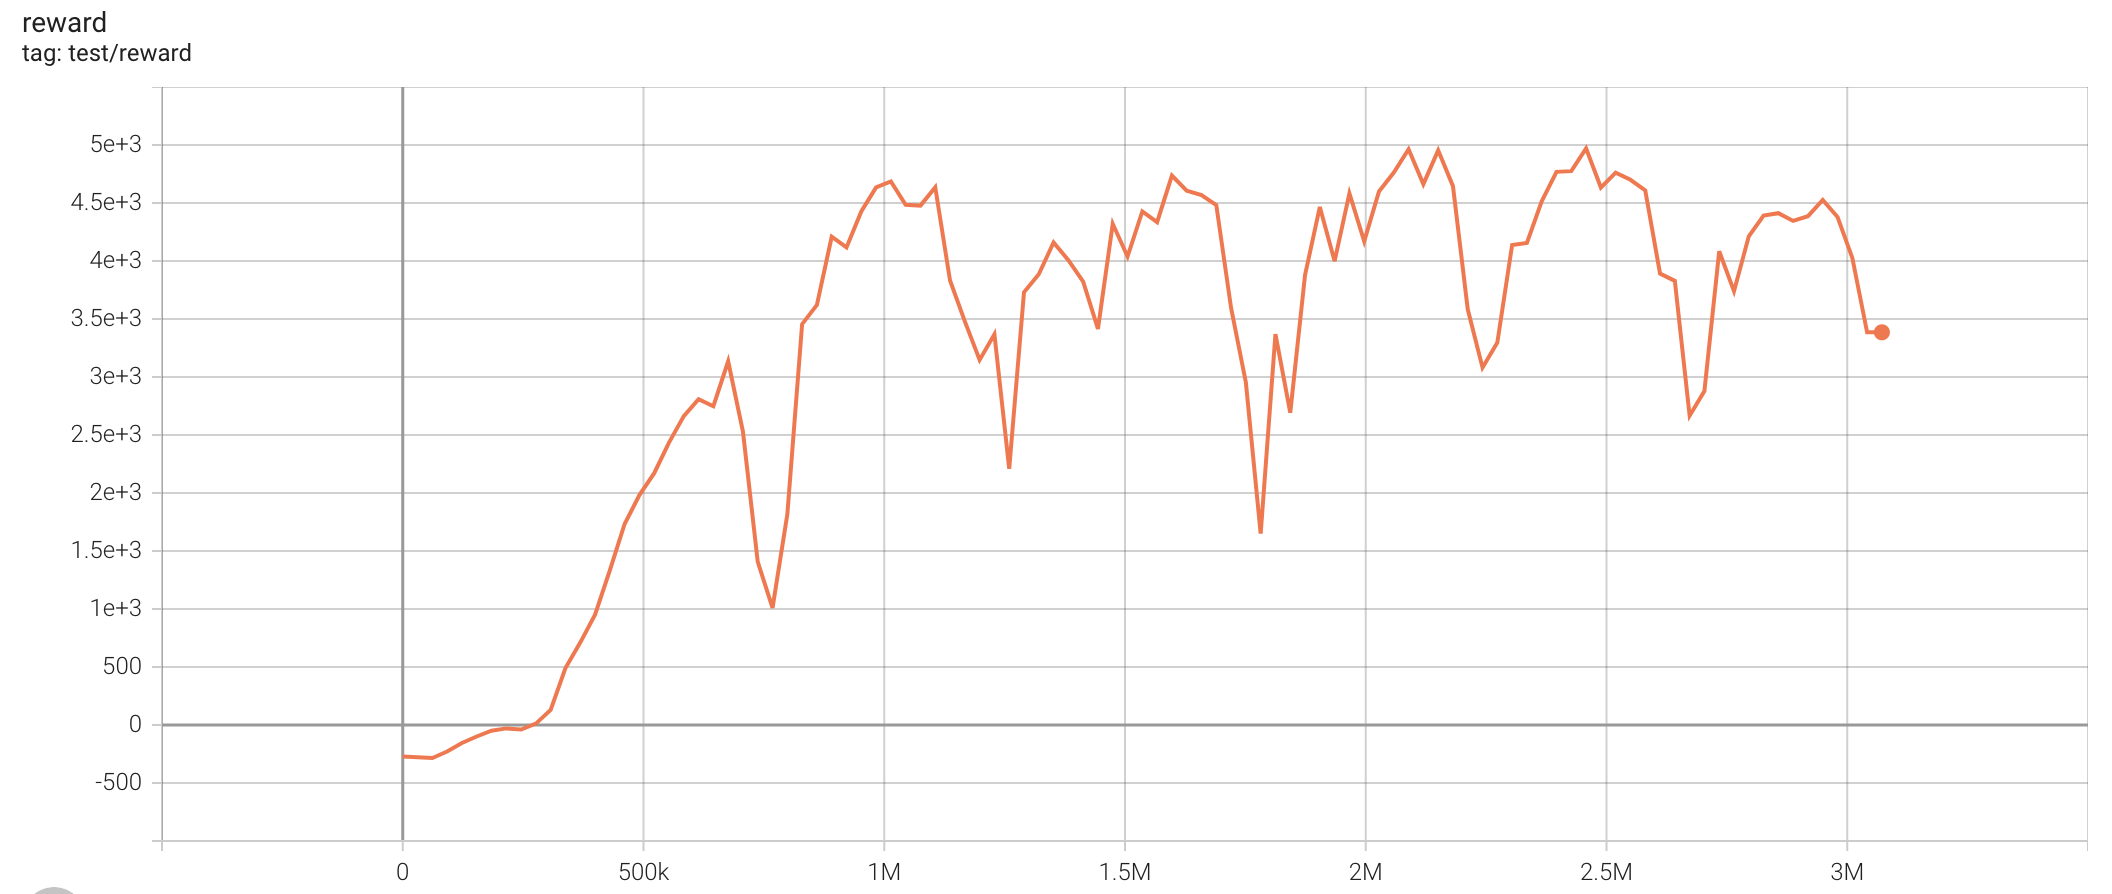
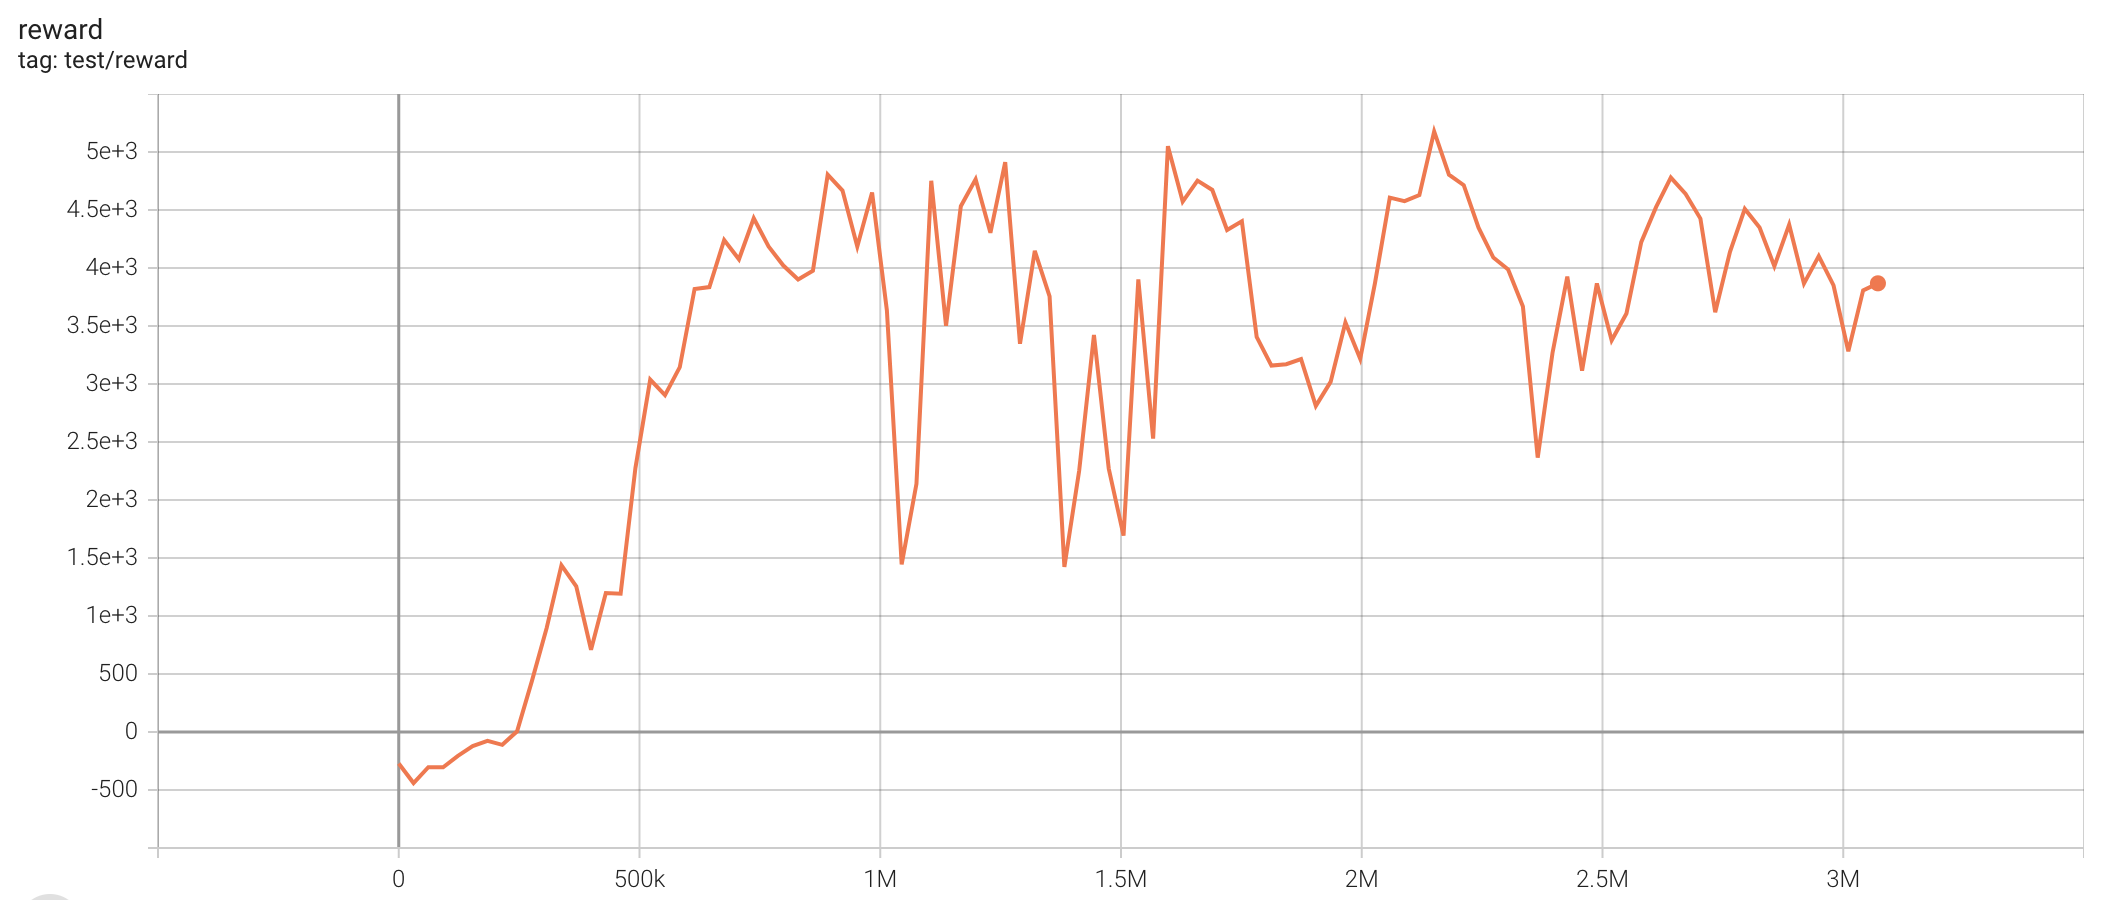
refactor GAIL implementation based on feedback

diff --git a/tianshou/policy/imitation/gail.py b/tianshou/policy/imitation/gail.py
@@ -18,11 +18,12 @@ class GAILPolicy(PPOPolicy):
     :param dist_fn: distribution class for computing the action.
     :type dist_fn: Type[torch.distributions.Distribution]
     :param ReplayBuffer expert_buffer: the replay buffer contains expert experience.
-    :param Discriminator disc: the discriminator network.
+    :param torch.nn.Module disc_net: the discriminator network with input dim equals
+        state dim plus action dim and output dim equals 1.
     :param torch.optim.Optimizer disc_optim: the optimizer for the discriminator
         network.
-    :param int disc_repeat: the number of discriminator grad steps per model grad
-        step. Default to 5.
+    :param int disc_update_num: the number of discriminator grad steps per model grad
+        step. Default to 4.
     :param float discount_factor: in [0, 1]. Default to 0.99.
     :param float eps_clip: :math:`\epsilon` in :math:`L_{CLIP}` in the original
         paper. Default to 0.2.
@@ -72,9 +73,9 @@ class GAILPolicy(PPOPolicy):
         optim: torch.optim.Optimizer,
         dist_fn: Type[torch.distributions.Distribution],
         expert_buffer: ReplayBuffer,
-        disc: torch.nn.Module,
+        disc_net: torch.nn.Module,
         disc_optim: torch.optim.Optimizer,
-        disc_repeat: int = 2,
+        disc_update_num: int = 4,
         eps_clip: float = 0.2,
         dual_clip: Optional[float] = None,
         value_clip: bool = False,
@@ -86,9 +87,9 @@ class GAILPolicy(PPOPolicy):
             actor, critic, optim, dist_fn, eps_clip, dual_clip, value_clip,
             advantage_normalization, recompute_advantage, **kwargs
         )
-        self.disc = disc
+        self.disc_net = disc_net
         self.disc_optim = disc_optim
-        self.disc_repeat = disc_repeat
+        self.disc_update_num = disc_update_num
         self.expert_buffer = expert_buffer
         self.action_dim = actor.output_dim
 
@@ -101,10 +102,13 @@ class GAILPolicy(PPOPolicy):
         """
         # update reward
         with torch.no_grad():
-            batch.rew = to_numpy(
-                -F.logsigmoid(-self.disc(batch.obs, batch.act)).flatten()
-            )
+            batch.rew = to_numpy(-F.logsigmoid(-self.disc(batch)).flatten())
         return super().process_fn(batch, buffer, indices)
+
+    def disc(self, batch: Batch) -> torch.Tensor:
+        obs = to_torch(batch.obs, device=self.disc_net.device)
+        act = to_torch(batch.act, device=self.disc_net.device)
+        return self.disc_net(torch.cat([obs, act], dim=1))  # type: ignore
 
     def learn(  # type: ignore
         self, batch: Batch, batch_size: int, repeat: int, **kwargs: Any
@@ -113,12 +117,11 @@ class GAILPolicy(PPOPolicy):
         losses = []
         acc_pis = []
         acc_exps = []
-        for b in batch.split(len(batch) // self.disc_repeat, merge_last=True):
-            logits_pi = self.disc(b.obs, b.act)
-            exp_b = to_torch(
-                self.expert_buffer.sample(batch_size)[0], device=b.act.device
-            )
-            logits_exp = self.disc(exp_b.obs, exp_b.act)  # type: ignore
+        bsz = len(batch) // self.disc_update_num
+        for b in batch.split(bsz, merge_last=True):
+            logits_pi = self.disc(b)
+            exp_b = to_torch(self.expert_buffer.sample(bsz)[0], device=b.act.device)
+            logits_exp = self.disc(exp_b)
             loss_pi = -F.logsigmoid(-logits_pi).mean()
             loss_exp = -F.logsigmoid(logits_exp).mean()
             loss_disc = loss_pi + loss_exp

diff --git a/examples/inverse/irl_gail.py b/examples/inverse/irl_gail.py
@@ -14,14 +14,27 @@ from torch.distributions import Independent, Normal
 from torch.optim.lr_scheduler import LambdaLR
 from torch.utils.tensorboard import SummaryWriter
 
-from examples.atari.atari_wrapper import NoRewardEnv
 from tianshou.data import Batch, Collector, ReplayBuffer, VectorReplayBuffer
 from tianshou.env import SubprocVectorEnv
 from tianshou.policy import GAILPolicy
 from tianshou.trainer import onpolicy_trainer
 from tianshou.utils import TensorboardLogger
 from tianshou.utils.net.common import ActorCritic, Net
-from tianshou.utils.net.continuous import ActorProb, Critic, GAILDiscriminator
+from tianshou.utils.net.continuous import ActorProb, Critic
+
+
+class NoRewardEnv(gym.RewardWrapper):
+    """sets the reward to 0.
+
+    :param gym.Env env: the environment to wrap.
+    """
+
+    def __init__(self, env):
+        super().__init__(env)
+
+    def reward(self, reward):
+        """Set reward to 0."""
+        return np.zeros_like(reward)
 
 
 def get_args():
@@ -40,7 +53,7 @@ def get_args():
     parser.add_argument('--step-per-epoch', type=int, default=30000)
     parser.add_argument('--step-per-collect', type=int, default=2048)
     parser.add_argument('--repeat-per-collect', type=int, default=10)
-    parser.add_argument('--disc-repeat', type=int, default=2)
+    parser.add_argument('--disc-update-num', type=int, default=2)
     parser.add_argument('--batch-size', type=int, default=64)
     parser.add_argument('--training-num', type=int, default=64)
     parser.add_argument('--test-num', type=int, default=10)
@@ -136,19 +149,21 @@ def test_gail(args=get_args()):
 
     optim = torch.optim.Adam(ActorCritic(actor, critic).parameters(), lr=args.lr)
     # discriminator
-    disc = GAILDiscriminator(
+    net_d = Net(
         args.state_shape,
-        args.action_shape,
+        action_shape=args.action_shape,
         hidden_sizes=args.hidden_sizes,
         activation=nn.Tanh,
-        device=args.device
-    ).to(args.device)
-    for m in disc.modules():
+        device=args.device,
+        concat=True
+    )
+    disc_net = Critic(net_d, device=args.device).to(args.device)
+    for m in disc_net.modules():
         if isinstance(m, torch.nn.Linear):
             # orthogonal initialization
             torch.nn.init.orthogonal_(m.weight, gain=np.sqrt(2))
             torch.nn.init.zeros_(m.bias)
-    disc_optim = torch.optim.Adam(disc.parameters(), lr=args.disc_lr)
+    disc_optim = torch.optim.Adam(disc_net.parameters(), lr=args.disc_lr)
 
     lr_scheduler = None
     if args.lr_decay:
@@ -189,9 +204,9 @@ def test_gail(args=get_args()):
         optim,
         dist,
         expert_buffer,
-        disc,
+        disc_net,
         disc_optim,
-        disc_repeat=args.disc_repeat,
+        disc_update_num=args.disc_update_num,
         discount_factor=args.gamma,
         gae_lambda=args.gae_lambda,
         max_grad_norm=args.max_grad_norm,

diff --git a/tianshou/utils/net/continuous.py b/tianshou/utils/net/continuous.py
@@ -472,41 +472,3 @@ class VAE(nn.Module):
         # decode z with state!
         return self.max_action * \
             torch.tanh(self.decoder(torch.cat([state, latent_z], -1)))
-
-
-class GAILDiscriminator(nn.Module):
-    """Discriminator network used in GAIL policy.
-
-    .. note::
-
-        Adapted from https://github.com/ku2482/gail-airl-ppo.pytorch/blob/master
-        /gail_airl_ppo/network/disc.py .
-    """
-
-    def __init__(
-        self,
-        state_shape: Union[int, Sequence[int]],
-        action_shape: Union[int, Sequence[int]],
-        hidden_sizes: Sequence[int] = (),
-        activation: Optional[Type[nn.Module]] = nn.Tanh,
-        device: Union[str, int, torch.device] = "cpu",
-    ) -> None:
-        super().__init__()
-        self.device = device
-        self.output_dim = 1
-        state_dim = int(np.prod(state_shape))
-        action_dim = int(np.prod(action_shape))
-        self.net = MLP(
-            state_dim + action_dim,
-            1,
-            hidden_sizes=hidden_sizes,
-            activation=activation,
-            device=self.device
-        )
-
-    def forward(
-        self, obs: torch.Tensor, act: torch.Tensor, **kwargs: Any
-    ) -> torch.Tensor:
-        obs = to_torch(obs, dtype=torch.float, device=self.device)
-        act = to_torch(act, dtype=torch.float, device=self.device)
-        return self.net(torch.cat([obs, act], dim=1))  # type: ignore

diff --git a/examples/atari/atari_wrapper.py b/examples/atari/atari_wrapper.py
@@ -181,20 +181,6 @@ class ClipRewardEnv(gym.RewardWrapper):
         return np.sign(reward)
 
 
-class NoRewardEnv(gym.RewardWrapper):
-    """sets the reward to 0.
-
-    :param gym.Env env: the environment to wrap.
-    """
-
-    def __init__(self, env):
-        super().__init__(env)
-
-    def reward(self, reward):
-        """Set reward to 0."""
-        return np.zeros_like(reward)
-
-
 class FrameStack(gym.Wrapper):
     """Stack n_frames last frames.
 
@@ -237,8 +223,7 @@ def wrap_deepmind(
     clip_rewards=True,
     frame_stack=4,
     scale=False,
-    warp_frame=True,
-    no_rewards=False
+    warp_frame=True
 ):
     """Configure environment for DeepMind-style Atari. The observation is
     channel-first: (c, h, w) instead of (h, w, c).
@@ -249,7 +234,6 @@ def wrap_deepmind(
     :param int frame_stack: wrap the frame stacking wrapper.
     :param bool scale: wrap the scaling observation wrapper.
     :param bool warp_frame: wrap the grayscale + resize observation wrapper.
-    :param bool no_rewards: wrap the no reward wrapper.
     :return: the wrapped atari environment.
     """
     assert 'NoFrameskip' in env_id
@@ -264,8 +248,6 @@ def wrap_deepmind(
         env = WarpFrame(env)
     if scale:
         env = ScaledFloatFrame(env)
-    if no_rewards:
-        env = NoRewardEnv(env)
     elif clip_rewards:
         env = ClipRewardEnv(env)
     if frame_stack:

diff --git a/examples/inverse/README.md b/examples/inverse/README.md
@@ -22,6 +22,6 @@ python irl_gail.py --task HalfCheetah-v2 --expert-data-task halfcheetah-expert-v
 
 | task                        | best reward | reward curve                          | parameters                                                   |
 | --------------------------- | ----------- | ------------------------------------- | ------------------------------------------------------------ |
-| HalfCheetah-v2     | 4971.56        | ![](results/gail/HalfCheetah-v2_rew.png)         | `python3 irl_gail.py --task "HalfCheetah-v2" --expert-data-task "halfcheetah-expert-v2"` |
-| Hopper-v2          | 1933.84        | ![](results/gail/Hopper-v2_rew.png)     | `python3 irl_gail.py --task "Hopper-v2" --expert-data-task "hopper-expert-v2"` |
-| Walker2d-v2        | 2077.99        | ![](results/gail/Walker2d-v2_rew.png)       | `python3 irl_gail.py --task "Walker2d-v2" --expert-data-task "walker2d-expert-v2"`  |
+| HalfCheetah-v2     | 5177.07        | ![](results/gail/HalfCheetah-v2_rew.png)         | `python3 irl_gail.py --task "HalfCheetah-v2" --expert-data-task "halfcheetah-expert-v2"` |
+| Hopper-v2          | 1761.44        | ![](results/gail/Hopper-v2_rew.png)     | `python3 irl_gail.py --task "Hopper-v2" --expert-data-task "hopper-expert-v2"` |
+| Walker2d-v2        | 2020.77        | ![](results/gail/Walker2d-v2_rew.png)       | `python3 irl_gail.py --task "Walker2d-v2" --expert-data-task "walker2d-expert-v2"`  |

diff --git a/examples/atari/README.md b/examples/atari/README.md
@@ -121,4 +121,3 @@ One epoch here is equal to 100,000 env step, 100 epochs stand for 10M.
 | MsPacmanNoFrameskip-v4      | 1930       | ![](results/ppo/MsPacman_rew.png)     | `python3 atari_ppo.py --task "MsPacmanNoFrameskip-v4"`  |
 | SeaquestNoFrameskip-v4      | 904      | ![](results/ppo/Seaquest_rew.png)     | `python3 atari_ppo.py --task "SeaquestNoFrameskip-v4" --lr 2.5e-5`  |
 | SpaceInvadersNoFrameskip-v4 | 843       | ![](results/ppo/SpaceInvaders_rew.png) | `python3 atari_ppo.py --task "SpaceInvadersNoFrameskip-v4"`  |
-Note that CRR itself does not work well in Atari tasks but adding CQL loss/regularizer helps.
